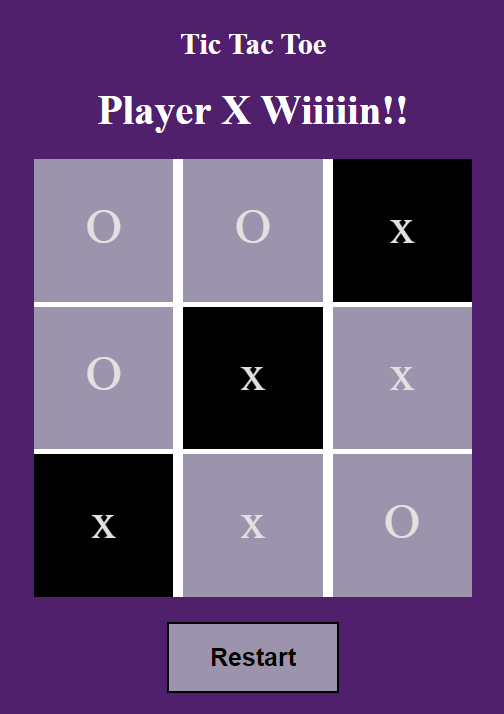
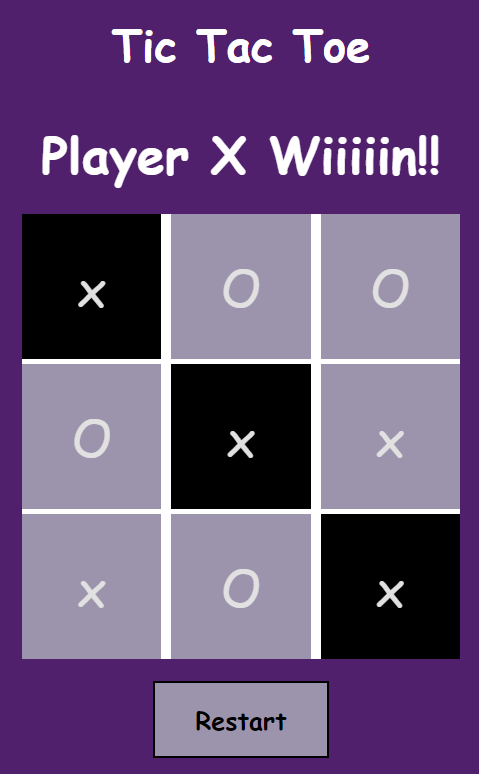
edit the style

diff --git a/main.js b/main.js
@@ -6,6 +6,9 @@ let countX = 0;
 let countO = 0;
 var turn = 'X'
 
+
+//#region game events
+
 // add 3 events for all fo cell for who turn is 
 // 1-mouseenter any cell
 cell.mouseenter(function() {
@@ -68,6 +71,9 @@ cell.click(function() {
     unbind(play)
 })
 
+//#endregion
+
+// #region unbind 
 function unbind(forWhat) {
     $(forWhat).unbind('mouseleave');
     $(forWhat).unbind('mouseenter');
@@ -77,9 +83,12 @@ function unbind(forWhat) {
 function unbindWin(forWhat, playerTurn) {
     unbind(forWhat)
     status.text("Player " + playerTurn + " Wiiiiin!!")
-    status.css({ fontSize: "33px" })
+    status.css({ fontSize: "40px" })
     cell.css({ cursor: "context-menu" })
 }
+//#endregion
+
+// #region Win
 // who win the game
 function checkWin(player) {
     if (classCheck($('#cel3'), $('#cel2'), $('#cel1'), player)) {
@@ -125,6 +134,9 @@ function winCell(cell1, cell2, cell3) {
     $(cell2).css('backgroundColor', 'black')
     $(cell3).css('backgroundColor', 'black')
 }
+
+//#endregion
+
 // restart the game by the button 
 restartButton.on('click', function() {
     location.reload()

diff --git a/style.css b/style.css
@@ -1,16 +1,17 @@
 body {
     background-color: #50206c;
     color: white;
-    margin-top: 30px;
-    width: auto;
+    margin-top: 10px;
     text-align: center;
     justify-items: center;
     justify-content: center;
     display: grid;
+    font-family: Cursive;
+    font-size: 30px;
 }
 
 .turn {
-    font-size: 20px;
+    font-size: 30px;
     font-weight: bold;
     margin-bottom: 20px;
 }
@@ -25,7 +26,7 @@ body {
 
 .cell {
     border: 4px solid;
-    padding-top: 30px;
+    padding: 30px;
     cursor: pointer;
 }
 
@@ -46,13 +47,14 @@ body {
 }
 
 button {
-    margin-top: 20px;
+    margin-top: 23px;
     background-color: #9c94ac;
     border-color: black;
     font-size: 20px;
     padding: 15px 32px;
     font-weight: bold;
     cursor: pointer;
+    font-family: Cursive;
 }
 
 button:hover {

diff --git a/index.html b/index.html
@@ -14,7 +14,7 @@
 <body>
     <!-- game tittel -->
     <div class="center">
-        <h2>Tic Tac Toe</h2>
+        <h3>Tic Tac Toe</h3>
         <!-- here will show the user turn -->
         <div class="turn">Start Play</div>
         <!-- the cells game with class and id for cell in js-->
